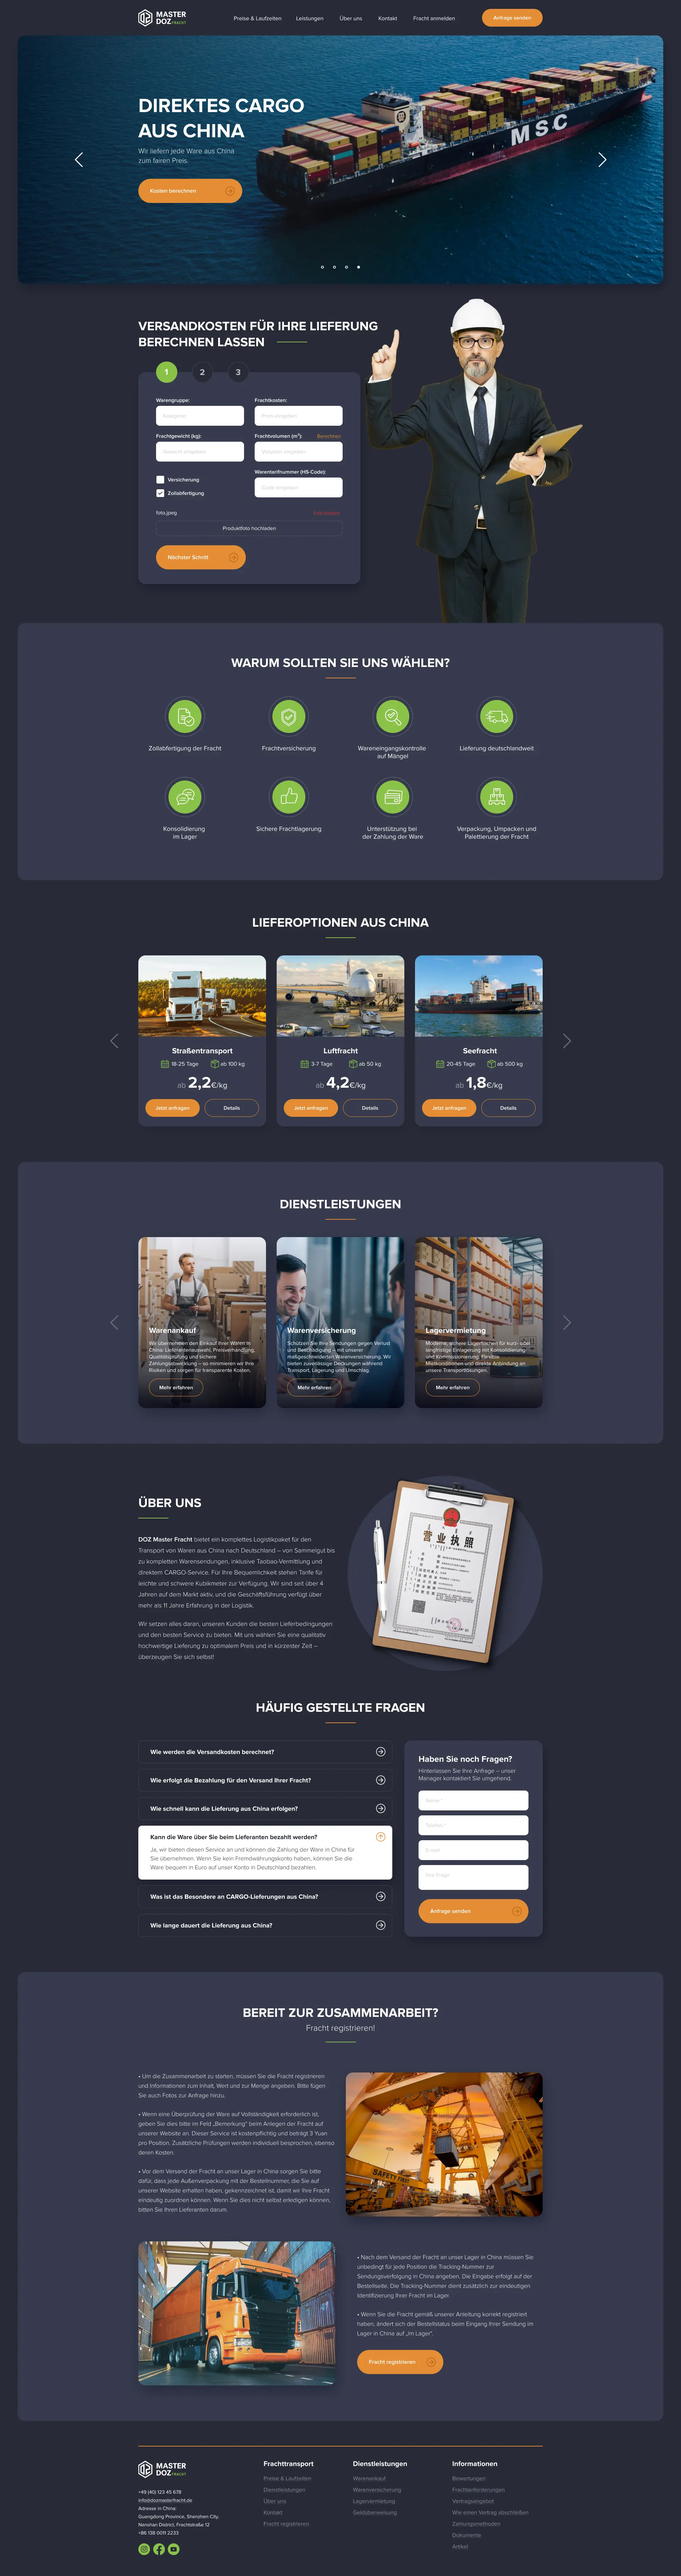
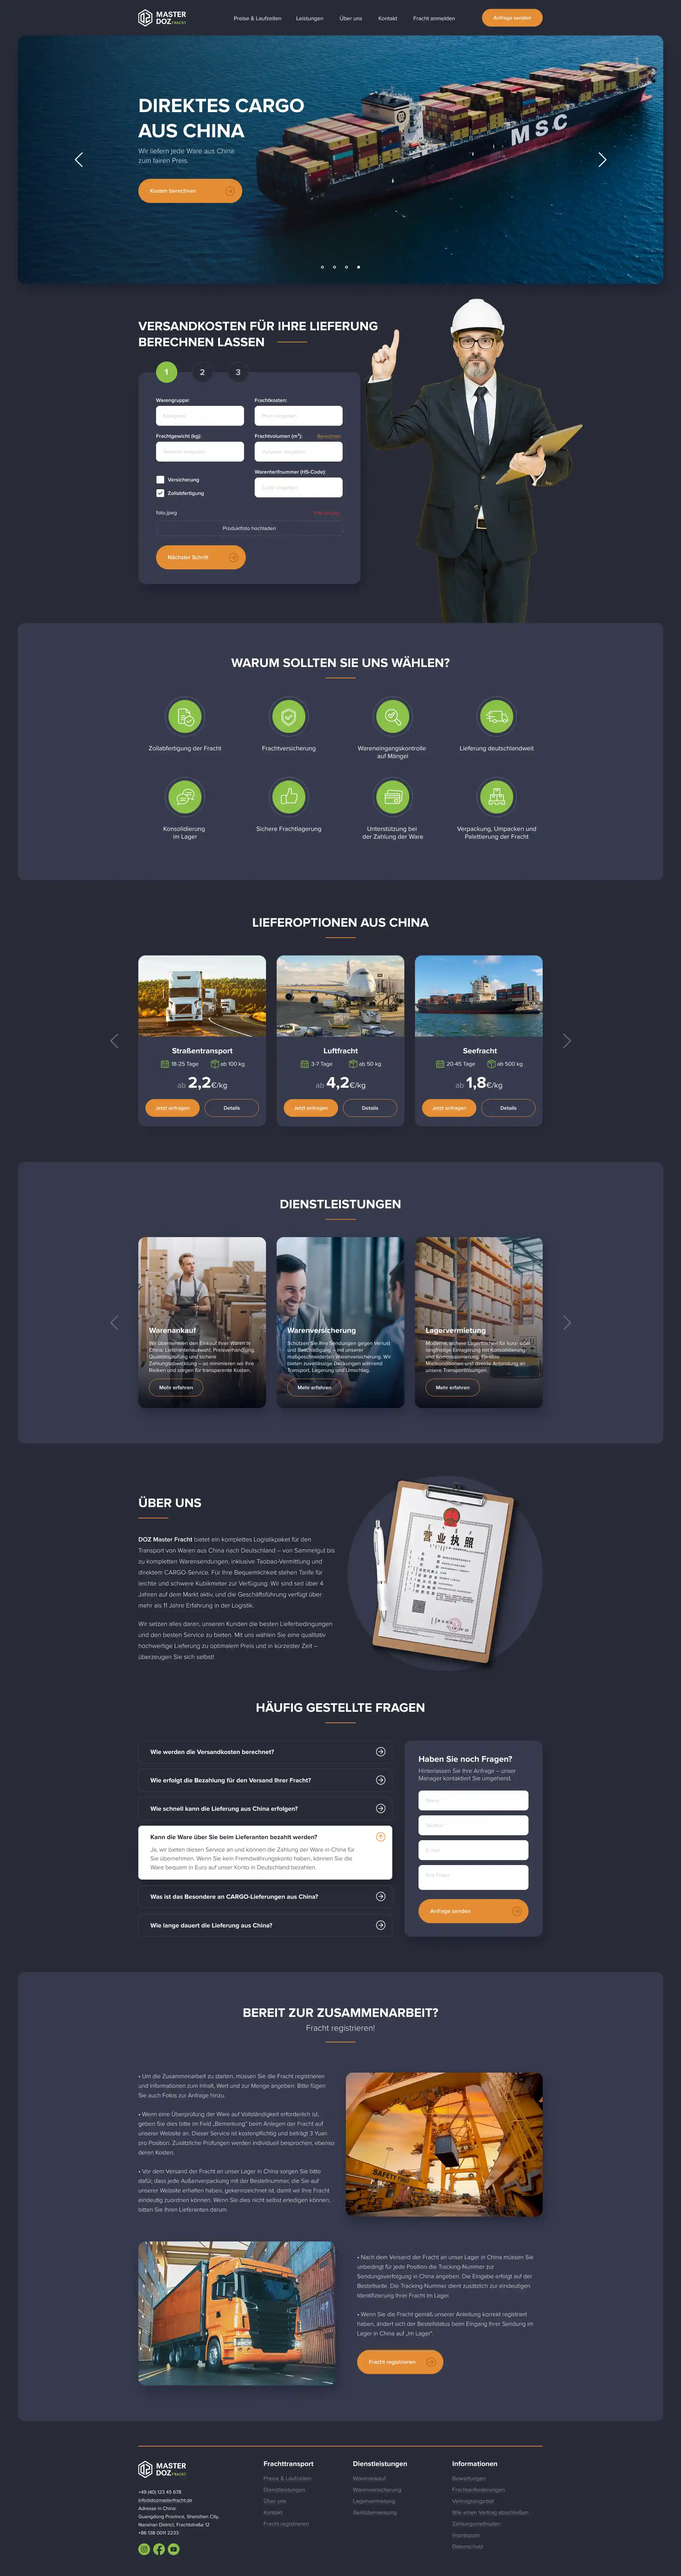
Fix

diff --git a/src/components/UI/AnimatedLogo.tsx b/src/components/UI/AnimatedLogo.tsx
@@ -1,0 +1,80 @@
+import React from 'react';
+import { motion } from 'framer-motion';
+
+const AnimatedLogo: React.FC = () => {
+    const particles = [
+        { id: 1, x: [0, 15, -10, 0], y: [0, -10, 10, 0], size: 2, delay: 0 },
+        { id: 2, x: [0, -20, 15, 0], y: [0, 15, -15, 0], size: 3, delay: 0.5 },
+        { id: 3, x: [0, 10, -20, 0], y: [0, -20, 5, 0], size: 2, delay: 1 },
+    ];
+
+    return (
+        <div className="relative flex items-center justify-center group cursor-pointer">
+
+            <motion.div
+                animate={{
+                    opacity: [0.3, 0.6, 0.3],
+                    scale: [1, 1.1, 1],
+                }}
+                transition={{
+                    duration: 4,
+                    repeat: Infinity,
+                    ease: "easeInOut",
+                }}
+                className="absolute inset-0 bg-accent/20 blur-xl rounded-full"
+            />
+
+            {particles.map((p) => (
+                <motion.div
+                    key={p.id}
+                    animate={{
+                        x: p.x,
+                        y: p.y,
+                        opacity: [0, 0.8, 0],
+                    }}
+                    transition={{
+                        duration: 5 + p.id,
+                        repeat: Infinity,
+                        delay: p.delay,
+                        ease: "linear",
+                    }}
+                    className="absolute bg-accent rounded-full"
+                    style={{ width: p.size, height: p.size }}
+                />
+            ))}
+
+            <motion.img
+                src="images/logo.svg"
+                alt="Logo"
+                width="48"
+                height="48"
+                animate={{
+                    rotateY: [0, 10, -10, 0],
+                }}
+                transition={{
+                    duration: 6,
+                    repeat: Infinity,
+                    ease: "easeInOut",
+                }}
+                className="relative z-10 h-10 md:h-12 w-auto object-contain transition-all duration-500 group-hover:brightness-125 group-hover:drop-shadow-[0_0_15px_rgba(59,130,246,0.5)]"
+            />
+
+            <div className="absolute inset-0 z-20 overflow-hidden rounded-lg pointer-events-none">
+                <motion.div
+                    animate={{
+                        x: ['-200%', '200%'],
+                    }}
+                    transition={{
+                        duration: 3,
+                        repeat: Infinity,
+                        repeatDelay: 4,
+                        ease: "easeInOut",
+                    }}
+                    className="w-1/2 h-full bg-gradient-to-r from-transparent via-white/10 to-transparent skew-x-12"
+                />
+            </div>
+        </div>
+    );
+};
+
+export default AnimatedLogo;

diff --git a/src/components/Layout/Navbar.tsx b/src/components/Layout/Navbar.tsx
@@ -1,6 +1,7 @@
 import React, { useState, useEffect } from 'react';
 import { NAV_ITEMS } from '../../constants';
 import { Menu, X } from 'lucide-react';
+import AnimatedLogo from '../UI/AnimatedLogo';
 
 const Navbar: React.FC = () => {
   const [isScrolled, setIsScrolled] = useState(false);
@@ -46,14 +47,8 @@ const Navbar: React.FC = () => {
     >
       <div className="w-full max-w-7xl mx-auto px-4 md:px-6 flex justify-between items-center">
 
-        <a href="#" className="relative block group z-[60]" onClick={() => setMobileMenuOpen(false)}>
-          <img
-            src="images/logo.svg"
-            alt="Logo"
-            width="48"
-            height="48"
-            className="h-10 md:h-12 w-auto object-contain transition-transform duration-300 -ml-0 md:-ml-0"
-          />
+        <a href="#" className="relative block z-[60]" aria-label="Home" onClick={() => setMobileMenuOpen(false)}>
+          <AnimatedLogo />
         </a>
 
         <nav className="hidden lg:flex gap-8 items-center">
